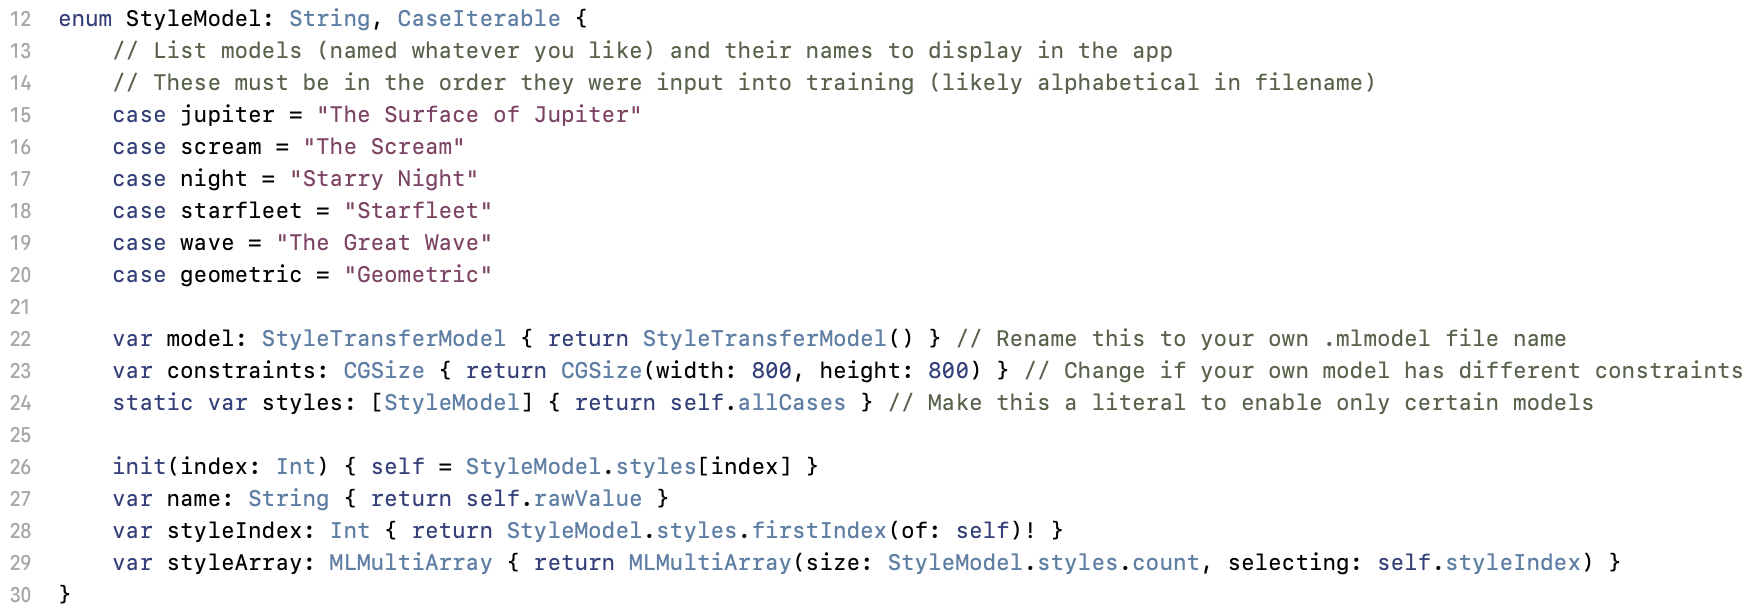
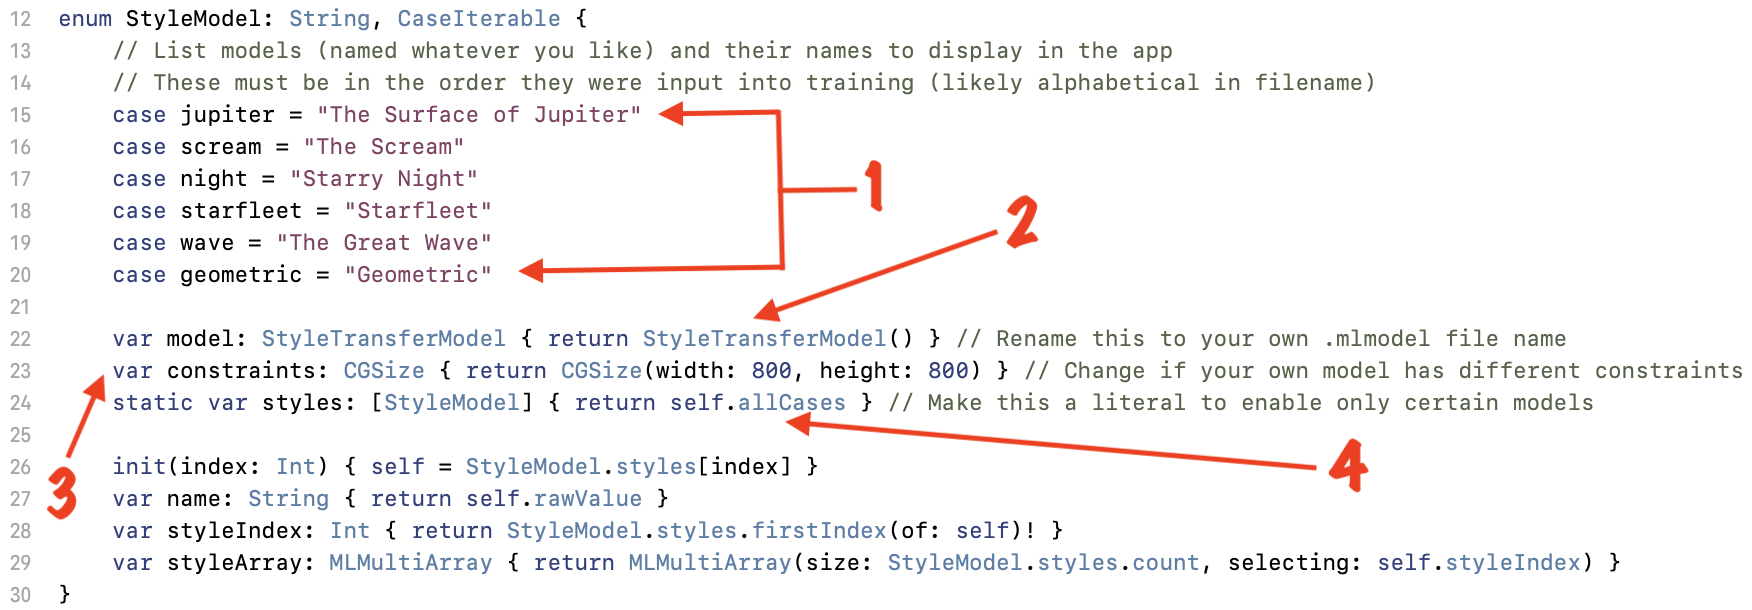
Numbered changes

diff --git a/README.md b/README.md
@@ -18,10 +18,10 @@ In the **StyleModel.swift** file, there is the declaration of an enum called **S
 
 If a new .mlmodel file has been trained to replace the old one, some changes may need to be made.
 
-* the **enum cases** should list all model style options in the order they were input into training (this will often be alphabetical by image filename): the case name can be anything, the String rawValue should be how you want it listed in the app
-* the **model** variable type and return value must match the name of your .mlmodel file
-* the **constraints** for input size must match those listed in the .mlmodel details (see below)
-* the **styles** variable return value can be replaced with an array literal to enable only certain styles to be visible and accessible in the app
+1. the **enum cases** should list all model style options in the order they were input into training (this will often be alphabetical by image filename): the case name can be anything, the String rawValue should be how you want it listed in the app
+2. the **model** variable type and return value must match the name of your .mlmodel file
+3. the **constraints** for input size must match those listed in the .mlmodel details (see below)
+4. the **styles** variable return value can be replaced with an array literal to enable only certain styles to be visible and accessible in the app
 
 ![Screenshot of StyleTransferModel.ml details](Assets/ModelDetails.png)
 
